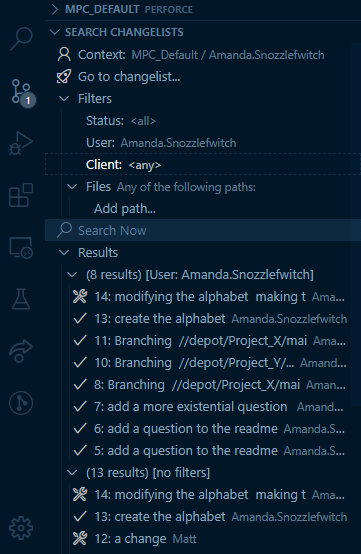
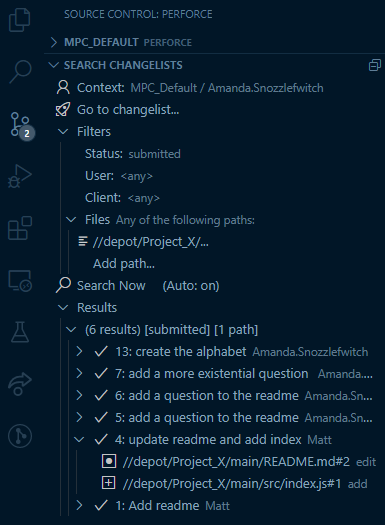
Readme updates

diff --git a/README.md b/README.md
@@ -105,7 +105,7 @@ Search for changelists from the SCM view, using the standard set of perforce fil
 
 ![Changelist Search example](images/changeSearch.png)
 
-Enter the set of filters and click "Search Now" to see or update results
+Enter the set of filters and click "Search Now" to see or update results. Use auto search to automatically update results when you change the filters
 
 All views can now be dragged to other locations in VS Code - so this can be placed anywhere you like
 
